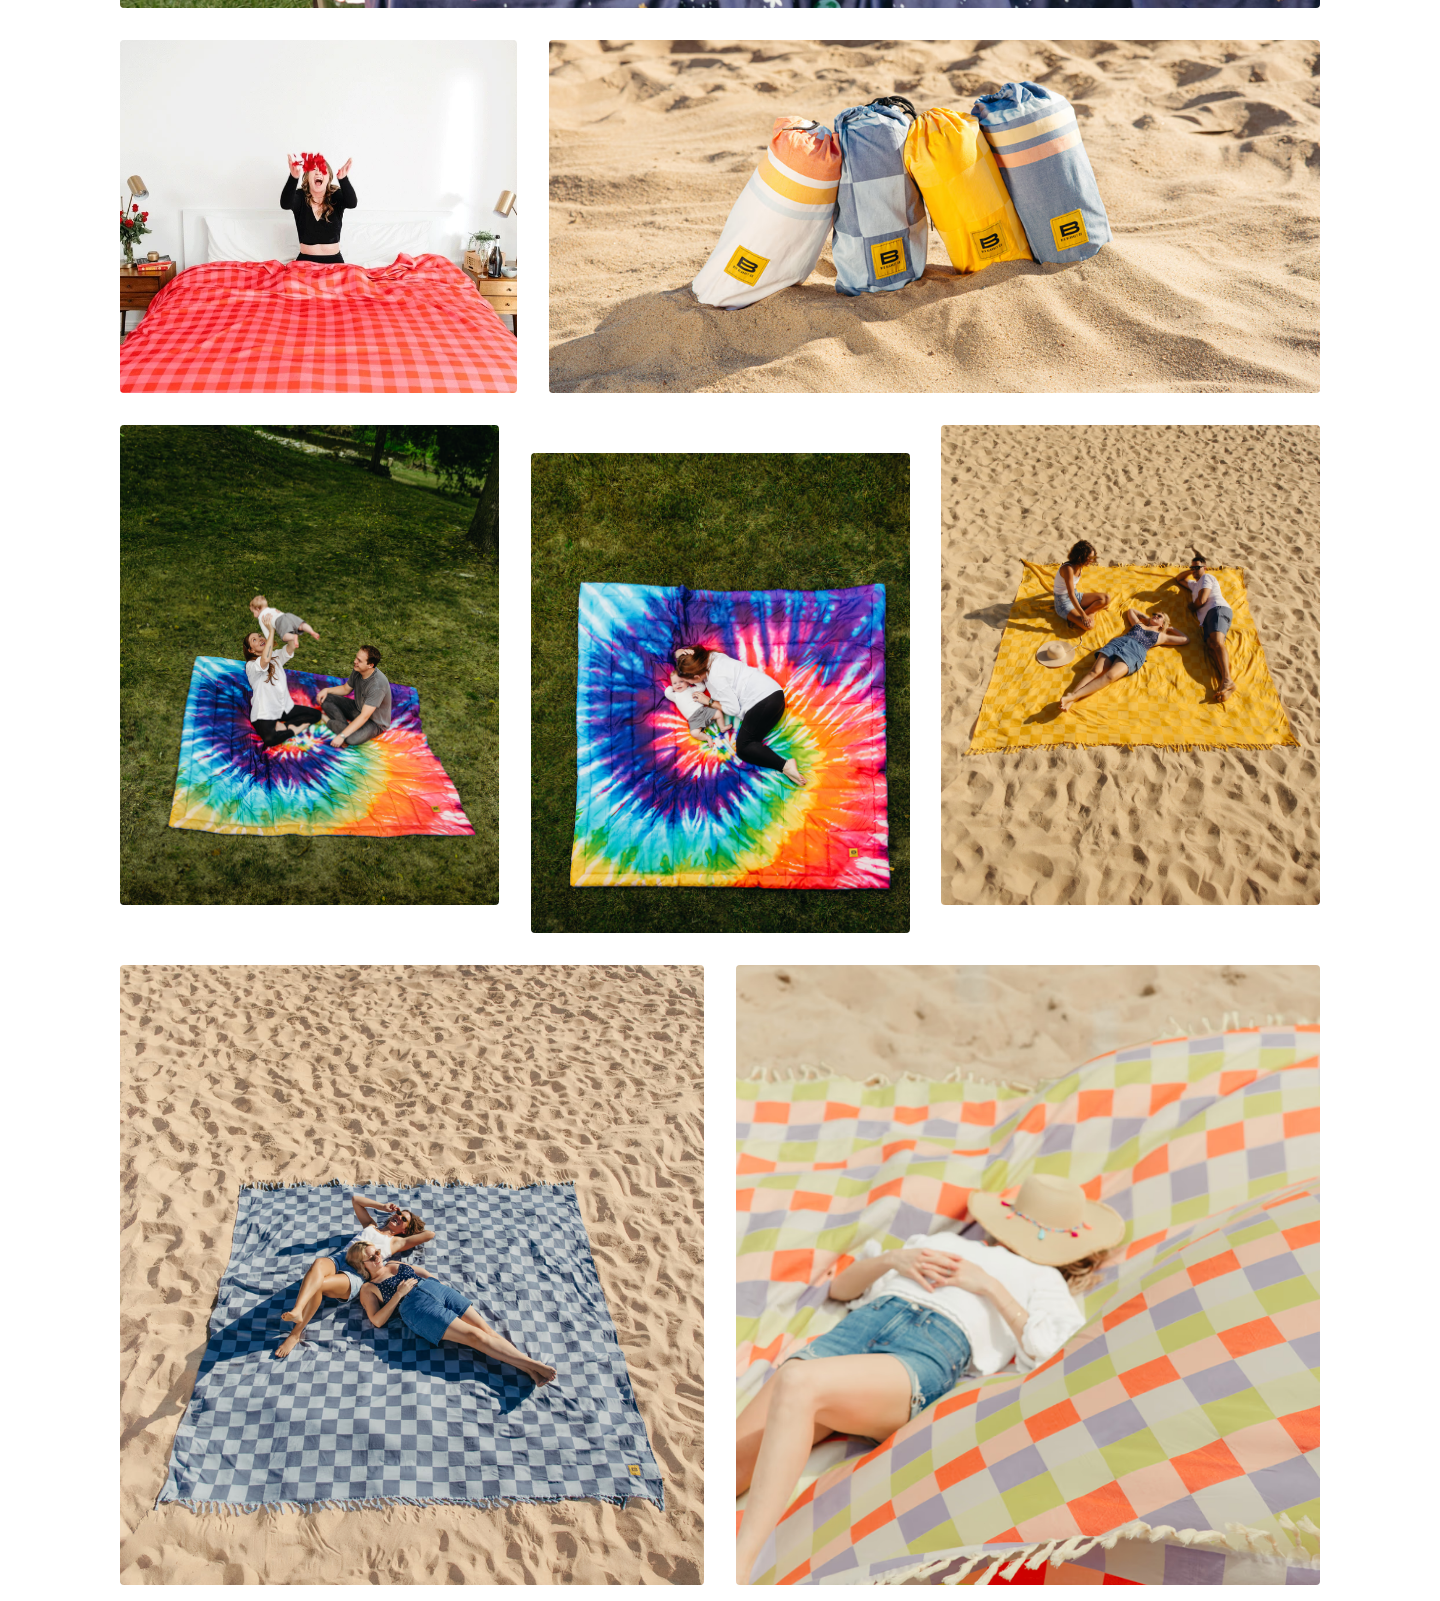
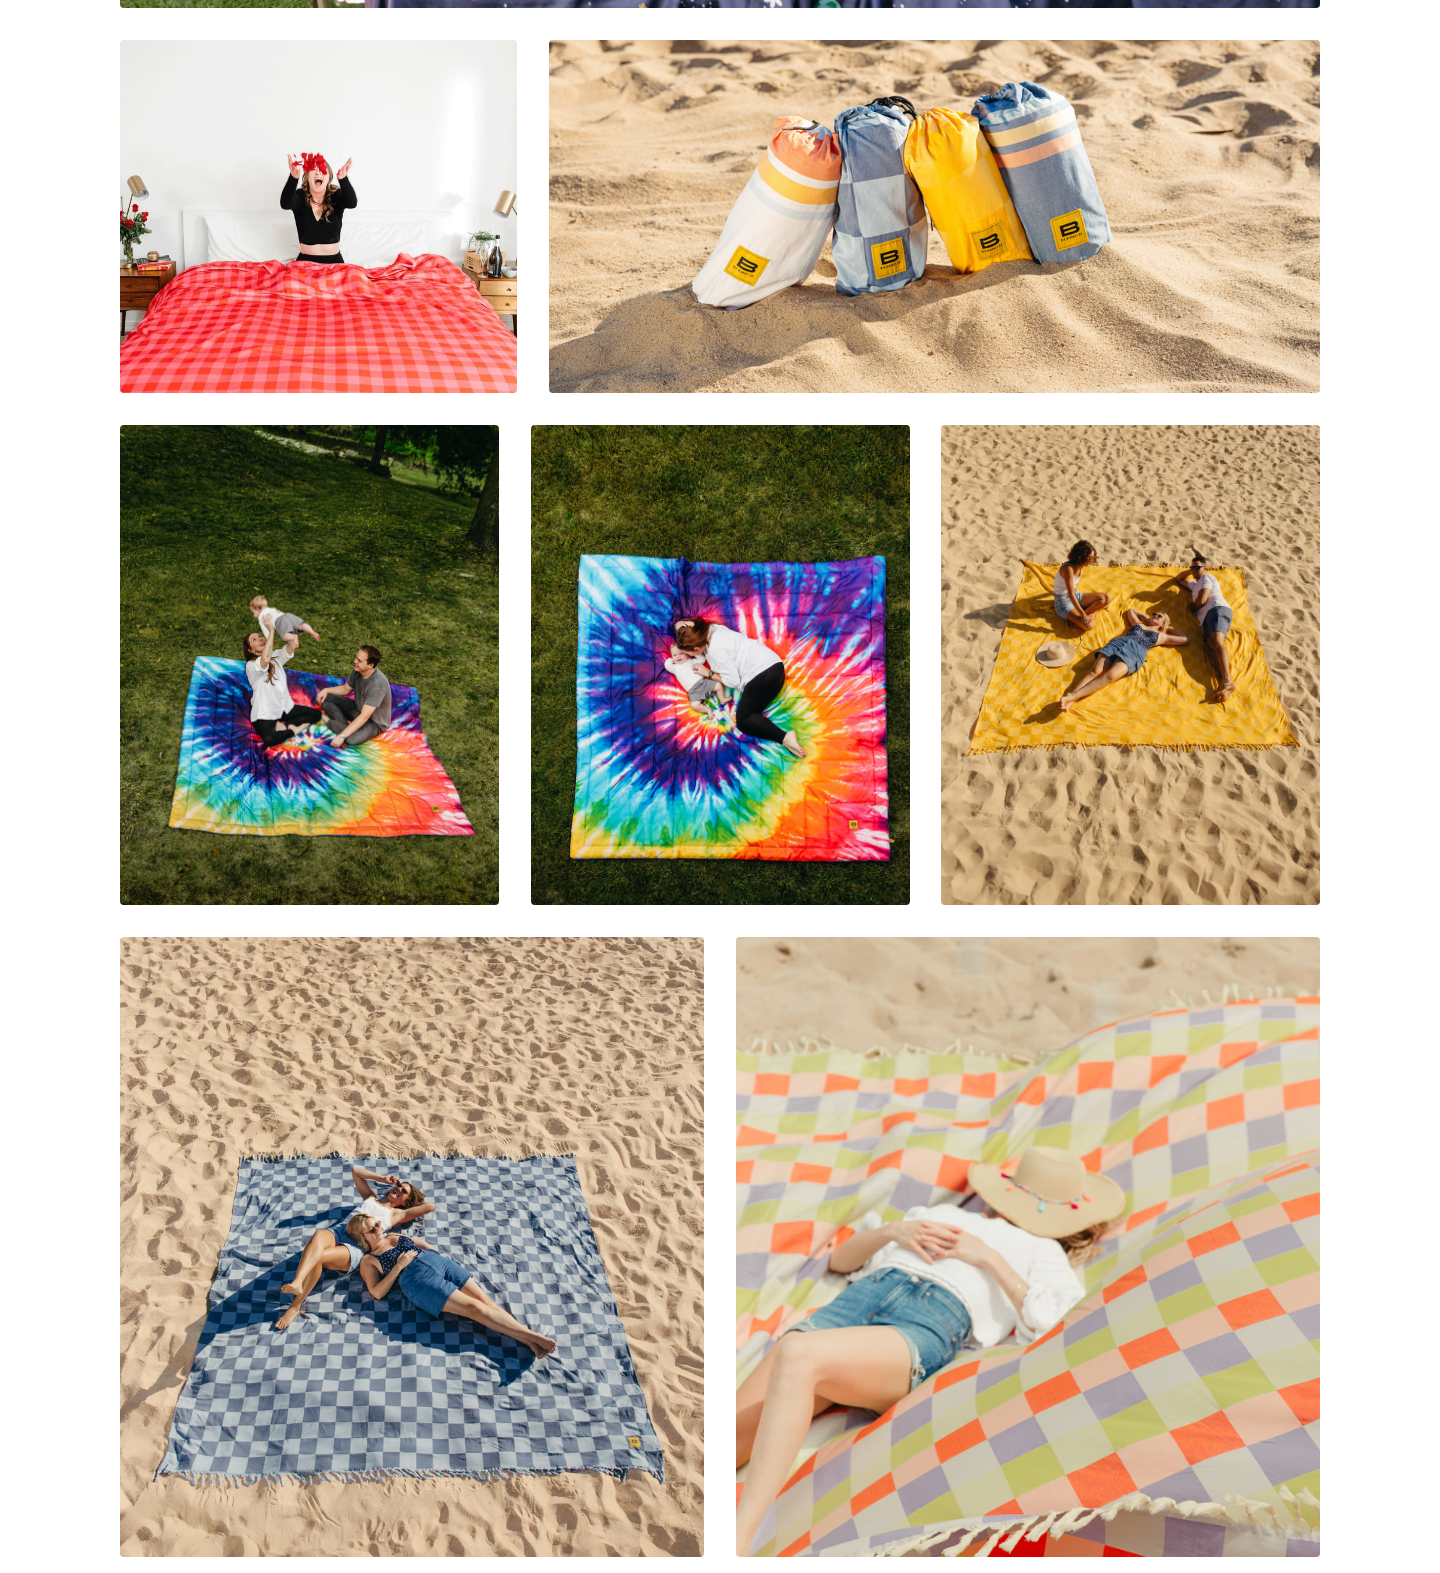
ks-part2 round 1: Big Blanket trios level, refreshed after-images

diff --git a/ks-part2-7c3e91a4/round-1/index.html b/ks-part2-7c3e91a4/round-1/index.html
@@ -126,7 +126,7 @@ dl>div{grid-template-columns:1fr;gap:6px}.close{padding:56px 0}.close p{font-siz
 <div class="compare screenshots"><figure><figcaption>Before · kidsister.co</figcaption><a class="image-link" href="evidence/filters-before-desktop.png" target="_blank" rel="noopener" aria-label="Open filters before screenshot full size"><picture><source media="(max-width: 809px)" srcset="evidence/filters-before-phone.png"><img src="evidence/filters-before-desktop.png" alt="filters: current site" loading="lazy"></picture></a></figure><figure><figcaption>After · staged on the preview</figcaption><a class="image-link" href="evidence/filters-after-desktop.png" target="_blank" rel="noopener" aria-label="Open filters after screenshot full size"><picture><source media="(max-width: 809px)" srcset="evidence/filters-after-phone.png"><img src="evidence/filters-after-desktop.png" alt="filters: preview" loading="lazy"></picture></a></figure></div>
 </article>
 </div></section>
-<section id="big-blanket" class="band"><div class="wrap"><div class="section-intro"><p class="kicker">On the preview</p><h2>Big Blanket photos</h2><p>The photos from the BBCO folder are in. All eighteen sit at the end of the photo section on the Big Blanket case study, after the shots already there, tiled the way the rest of the page is: a trio with the middle shot dropped a touch, a pair, one row of four, and the wide shots in the same offset rows the page already uses. Each opens full size like the others, and each has a written description for search and screen readers.</p></div><div class="compare screenshots"><figure><figcaption>Before · kidsister.co</figcaption><a class="image-link" href="evidence/bigblanket-before-desktop.png" target="_blank" rel="noopener" aria-label="Open the Big Blanket before screenshot full size"><picture><source media="(max-width: 809px)" srcset="evidence/bigblanket-before-phone.png"><img src="evidence/bigblanket-before-desktop.png" alt="End of the Big Blanket photo section on the current site" loading="lazy"></picture></a></figure><figure><figcaption>After · preview</figcaption><a class="image-link" href="evidence/bigblanket-after-desktop.png" target="_blank" rel="noopener" aria-label="Open the Big Blanket after screenshot full size"><picture><source media="(max-width: 809px)" srcset="evidence/bigblanket-after-phone.png"><img src="evidence/bigblanket-after-desktop.png" alt="The same spot on the preview, with the first of the new photo rows" loading="lazy"></picture></a></figure></div><p style="margin-top:28px"><a href="https://teal-exercise-583649.framer.app/big-blanket" target="_blank" rel="noopener">View Big Blanket on the preview ↗</a> &nbsp;·&nbsp; <a href="evidence/bigblanket-all-desktop.png" target="_blank" rel="noopener">All eighteen in one image ↗</a></p><p class="narrow" style="margin-top:20px">Two things for the call: whether all eighteen stay or a few near-twins come out (the two picnic shots and the two kettlebell shots are close pairs), and whether you want them grouped this way or reshuffled.</p></div></section>
+<section id="big-blanket" class="band"><div class="wrap"><div class="section-intro"><p class="kicker">On the preview</p><h2>Big Blanket photos</h2><p>The photos from the BBCO folder are in. All eighteen sit at the end of the photo section on the Big Blanket case study, after the shots already there, tiled the way the rest of the page is: a trio, a pair, one row of four, and the wide shots in the same offset rows the page already uses. Each opens full size like the others, and each has a written description for search and screen readers.</p></div><div class="compare screenshots"><figure><figcaption>Before · kidsister.co</figcaption><a class="image-link" href="evidence/bigblanket-before-desktop.png" target="_blank" rel="noopener" aria-label="Open the Big Blanket before screenshot full size"><picture><source media="(max-width: 809px)" srcset="evidence/bigblanket-before-phone.png"><img src="evidence/bigblanket-before-desktop.png" alt="End of the Big Blanket photo section on the current site" loading="lazy"></picture></a></figure><figure><figcaption>After · preview</figcaption><a class="image-link" href="evidence/bigblanket-after-desktop.png" target="_blank" rel="noopener" aria-label="Open the Big Blanket after screenshot full size"><picture><source media="(max-width: 809px)" srcset="evidence/bigblanket-after-phone.png"><img src="evidence/bigblanket-after-desktop.png" alt="The same spot on the preview, with the first of the new photo rows" loading="lazy"></picture></a></figure></div><p style="margin-top:28px"><a href="https://teal-exercise-583649.framer.app/big-blanket" target="_blank" rel="noopener">View Big Blanket on the preview ↗</a> &nbsp;·&nbsp; <a href="evidence/bigblanket-all-desktop.png" target="_blank" rel="noopener">All eighteen in one image ↗</a></p><p class="narrow" style="margin-top:20px">Two things for the call: whether all eighteen stay or a few near-twins come out (the two picnic shots and the two kettlebell shots are close pairs), and whether you want them grouped this way or reshuffled.</p></div></section>
 <section id="remaining"><div class="wrap">
 <div class="section-intro"><h2>Service pages</h2><p>Still to come once the copy is in.</p></div>
 <div class="pending">
